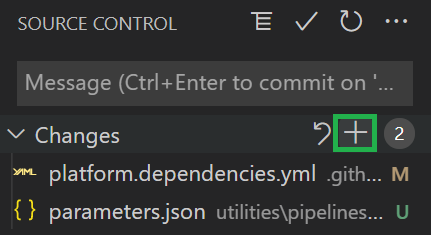
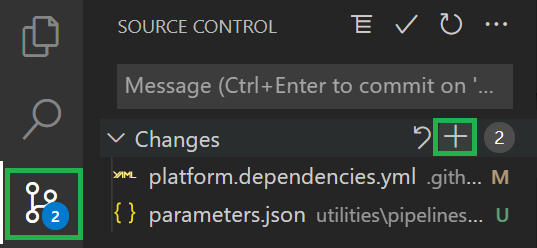
Update to latest

diff --git a/docs/wiki/Lab 7 - Contribution.md b/docs/wiki/Lab 7 - Contribution.md
@@ -177,21 +177,41 @@ With the readme updated we can now re-run the test to confirm everything is in o
 
 Now that the contribution is implemented and the tests are green, you can continue to prepare everything for the subsequent pull request.
 
-1. The first thing you have to do is to upload your changes. You can do this either via the terminal or by using the Git integration of VSCode. To keep it simple, this lab assumes you want to use the VSCode's git integration. If not already there, navigate to the source control menu to the left.
+1. The first thing you have to do is to upload your changes. You can do this either via the terminal or by using the Git integration of VSCode:
 
-    <img src="./media/Lab7/sourceControl.png" alt="Open source control" height="120">
+<details>
+<summary><b>Via VSCode's terminal</b></summary>
 
-1. Here you first need to add the changed files to the commit. To do so, select the `+` icon next to `Changes` (appears when hovering)
+1. If Terminal is not in sight, you can alternatively open it by expanding the `Terminal`-dropdown on the top, and selecting `New Terminal` 
+    
+1. Now, execute the following PowerShell commands:
 
-    <img src="./media/Lab7/gitadd.png" alt="Git add" height="120">
+    ```PowerShell
+    git add .
+    git commit -m 'Added output to route table'
+    git push
+    ```
+    
+</details>
 
-1. Next, you should give the commit a meaningful message such as 'Added output to route table' and can then click the checkmark symbol on the top to create the commit
+<details>
+<summary><b>Via VSCode's UI</b></summary>
 
-    <img src="./media/Lab7/gitCommit.png" alt="Git commit" height="120">
+ 1. Add your changes: If not already there, navigate to the source control menu to the left and add the changed files to the commit. To do so, select the `+` icon next to `Changes` (appears when hovering)
+     
+    <img src="./media/Lab5/gitAdd.png" alt="Open source control" height="130">
 
-1. Finally, you can push the changes to the repository by selecting the blue `Publish Branch` button
+1. Commit your changes: Next, you should give the commit a meaningful message such as 'Added output to route table' and can then click the checkmark symbol on the top to create the commit
+
+    <img src="./media/Lab7/gitCommit.png" alt="Git commit" height="160">
+
+1. Push your changes: Finally, you can push the changes to the repository by selecting the blue `Publish Branch` button
 
     <img src="./media/Lab7/gitpush.png" alt="Git push" height="80">
+
+</details>
+
+<p>
 
 1. Back in your fork, navigate to `Actions`
 
@@ -251,11 +271,11 @@ Part of your pull request are 2 files that should not be pushed into the target 
 
     <img src="./media/Lab7/settingsjson.png" alt="Settings JSON fork" height="180">
 
-1. Now, open the `settings.json` of the `CARML` repository at _https://github.com/Azure/ResourceModules/blob/main/settings.json_, copy its content and overwrite it in your local file in VSCode 
+1. Now, open the `settings.json` of the [`CARML` repository](_https://github.com/Azure/ResourceModules/blob/main/settings.json_), copy its content and overwrite it in your local file in VSCode 
 
     <img src="./media/Lab7/settingsCarml.png" alt="Settings JSON CARML" height="400">
 
-1. Next, perform the same actions for your local `global.variables.json` in path `.github\variables\global.variables.json` and the corresponding file in the `CARML` at _https://github.com/Azure/ResourceModules/blob/main/.github/variables/global.variables.json_.
+1. Next, perform the same actions for your local `global.variables.json` in path `.github\variables\global.variables.json` and the corresponding file in the [`CARML`](_https://github.com/Azure/ResourceModules/blob/main/.github/variables/global.variables.json_).
 
 
 1. Once done, perform the same actions of [Step 5](#step-5---upload-your-changes-and-run-the-module-pipeline) to upload your changes to the branch. These changes will automatically be available in the Pull Request you created earlier.

diff --git a/docs/wiki/Lab 5 - Extend test coverage.md b/docs/wiki/Lab 5 - Extend test coverage.md
@@ -106,15 +106,29 @@ Now you have to modify the workflow file to make sure it also uses the new param
 
 # Step 5 - Upload your changes to GitHub
 
-Now that the tests are implemented and the pipeline updated, you can upload your changes to GitHub.
+Now that the tests are implemented and the pipeline updated, you can upload your changes to GitHub. You can do this in two ways
 
-1. This can either be done via the terminal or by using the Git integration of VSCode. To keep it simple, this lab assumes you want to use the VSCode's git integration. If not already there, navigate to the source control menu to the left.
+<details>
+<summary><b>Via VSCode's terminal</b></summary>
 
-    <img src="./media/Lab5/gitInit.png" alt="Open source control" height="130">
+1. If Terminal is not in sight, you can alternatively open it by expanding the `Terminal`-dropdown on the top, and selecting `New Terminal` 
+    
+1. Now, execute the following PowerShell commands:
 
-1. Stage your changes: Here you first need to add the changed files to the commit. To do so, select the `+` icon next to `Changes` (appears when hovering)
+    ```PowerShell
+    git add .
+    git commit -m 'Added new minimum parameter test file and proximity placement group test to availability set module'
+    git push
+    ```
+    
+</details>
 
-    <img src="./media/Lab5/gitAdd.png" alt="Git add" height="130">
+<details>
+<summary><b>Via VSCode's UI</b></summary>
+
+1. Add your changes: If not already there, navigate to the source control menu to the left and add the changed files to the commit. To do so, select the `+` icon next to `Changes` (appears when hovering)
+
+    <img src="./media/Lab5/gitAdd.png" alt="Open source control" height="130">
 
 1. Commit your changes: Next, you should give the commit a meaningful message such as 'Added new minimum parameter test file and proximity placement group test to availability set module' and can then click the checkmark symbol on the top to create the commit
 
@@ -123,6 +137,10 @@ Now that the tests are implemented and the pipeline updated, you can upload your
 1. Push your changes: Finally, you can push the changes to the repository by selecting the blue `Publish Branch` button
 
     <img src="./media/Lab5/gitpush.png" alt="Git push" height="80">
+
+</details>
+
+<p>
 
 
 # Step 6 - Test the deployment
@@ -158,7 +176,7 @@ You will now manually test the deployment, verifying its template is using both 
 
 ---
 
-[Now proceed to the next lab](./Lab%206%20-%20Publishing)
+If ready, proceed to the next lab: [Lab 6 - Publishing](./Lab%206%20-%20Publishing)
 
 # Optional Appendix
 

diff --git a/docs/wiki/Lab 3 - Deploy Dependencies.md b/docs/wiki/Lab 3 - Deploy Dependencies.md
@@ -92,23 +92,40 @@ Together with the resource modules pipelines, we are providing a dependency pipe
 
 Now that the new dependency is implemented, you can upload your changes to GitHub. 
 
- This can either be done via the terminal or by using the Git integration of VSCode. To keep it simple, this lab assumes you want to use the VSCode's git integration.
+ This can either be done via the terminal or by using the Git integration of VSCode:
 
-1. Navigate to the source control menu to the left.
 
-    <img src="./media/Lab3/gitInit.png" alt="Open source control" height="120">
+<details>
+<summary><b>Via VSCode's terminal</b></summary>
 
-1. Stage your changes: Here you first need to add the changed files to the commit. To do so, select the `+` icon next to `Changes` (appears when hovering)
+1. If Terminal is not in sight, you can alternatively open it by expanding the `Terminal`-dropdown on the top, and selecting `New Terminal` 
+    
+1. Now, execute the following PowerShell commands:
 
-    <img src="./media/Lab3/gitAdd.png" alt="Git add" height="120">
+    ```PowerShell
+    git add .
+    git commit -m 'Added Proximity Placement Group to dependency pipeline'
+    git push
+    ```
+    
+</details>
+
+<details>
+<summary><b>Via VSCode's UI</b></summary>
+
+1. Add your changes: If not already there, navigate to the source control menu to the left and add the changed files to the commit. To do so, select the `+` icon next to `Changes` (appears when hovering)
+
+    <img src="./media/Lab3/gitAdd.png" alt="Open source control" height="130">
 
 1. Commit your changes: Next, you should give the commit a meaningful message such as 'Added Proximity Placement Group to dependency pipeline' and can then click the checkmark symbol on the top to create the commit
 
-    <img src="./media/Lab3/gitCommit.png" alt="Git commit" height="140">
+    <img src="./media/Lab3/gitCommit.png" alt="Git commit" height="160">
 
 1. Push your changes: Finally, you can push the changes to the repository by selecting the blue `Publish Branch` button
 
     <img src="./media/Lab3/gitpush.png" alt="Git push" height="80">
+
+</details>
 
 # Step 4 - Trigger the dependency pipeline
 

diff --git a/docs/wiki/Lab 6 - Publishing.md b/docs/wiki/Lab 6 - Publishing.md
@@ -14,9 +14,39 @@ In this lab, you will learn how to publish modules, both for releases and prerel
 
     <img src="./media/Lab6/1.png" alt="update the version property in the version.json file to be 0.1" height=180>
 
-1. Next, upload your changes in the same manner as you did before, add your changes to the commit, create a commit with a corresponding commit message (e.g. `Updated route table version to 0.1`) and push the changes to GitHub
+1. Next, upload your changes in any of the following 2 ways:
 
-    <img src="./media/Lab7/gitpush.png" alt="Git push" height=100>
+    <details>
+    <summary><b>Via VSCode's terminal</b></summary>
+
+    1. If Terminal is not in sight, you can alternatively open it by expanding the `Terminal`-dropdown on the top, and selecting `New Terminal` 
+        
+    1. Now, execute the following PowerShell commands:
+
+        ```PowerShell
+        git add .
+        git commit -m 'Updated route table version to 0.1'
+        git push
+        ```
+        
+    </details>
+
+    <details>
+    <summary><b>Via VSCode's UI</b></summary>
+
+    1. Add your changes: If not already there, navigate to the source control menu to the left and add the changed files to the commit. To do so, select the `+` icon next to `Changes` (appears when hovering)
+
+        <img src="./media/Lab6/gitAdd.png" alt="Open source control" height="130">
+
+    1. Commit your changes: Next, you should give the commit a meaningful message such as 'Updated route table version to 0.1' and can then click the checkmark symbol on the top to create the commit
+
+        <img src="./media/Lab6/gitCommit.png" alt="Git commit" height="160">
+
+    1. Push your changes: Finally, you can push the changes to the repository by selecting the blue `Publish Branch` button
+
+        <img src="./media/Lab6/gitpush.png" alt="Git push" height="80">
+
+    </details>
 
 # Step 2 - Run the workflow in GitHub
 
